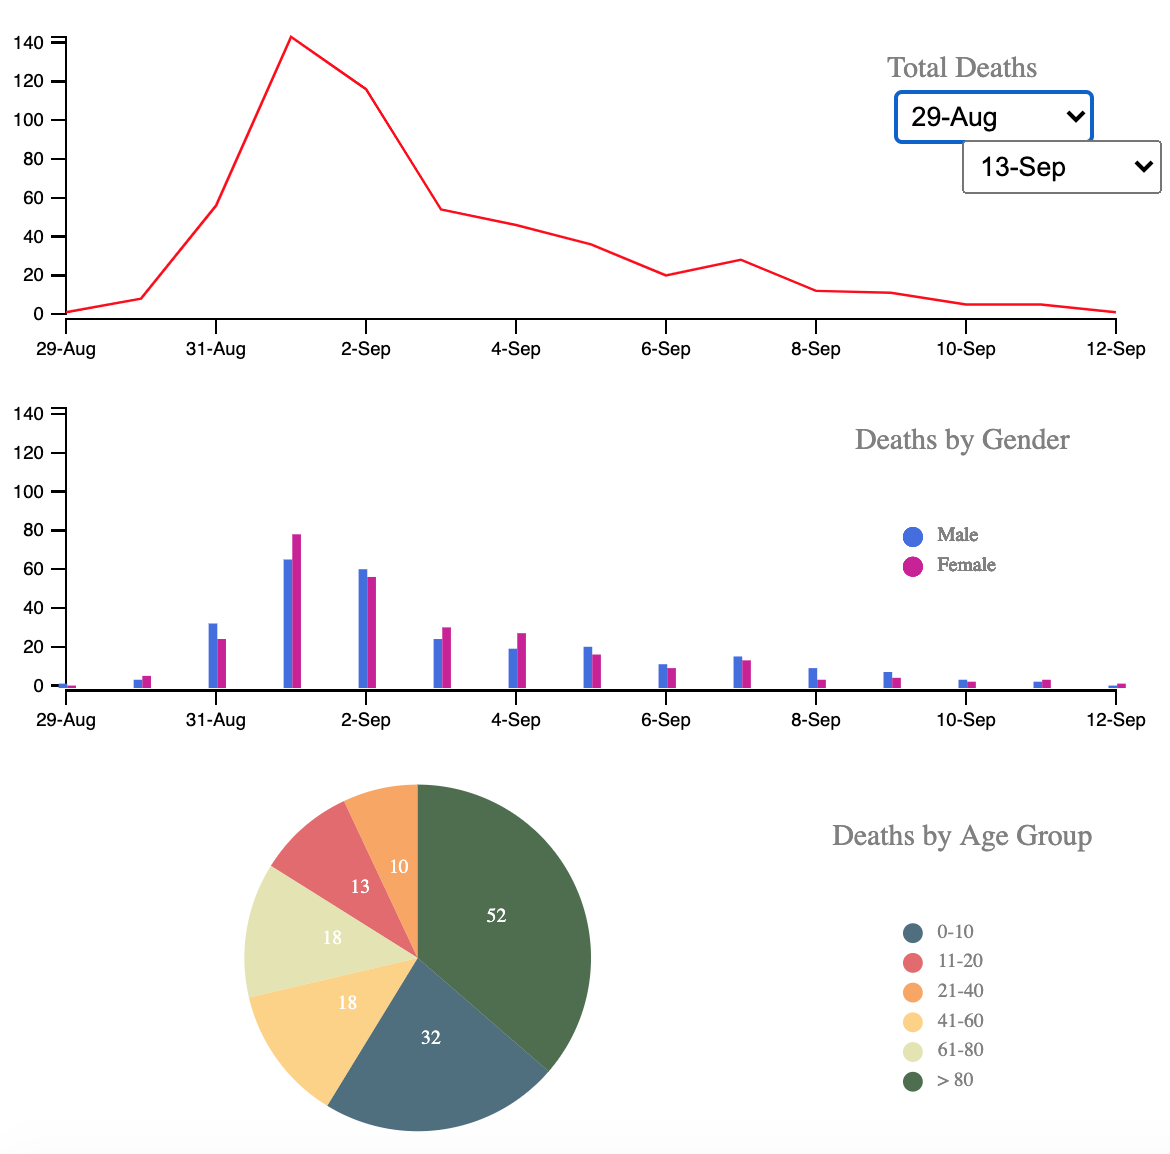
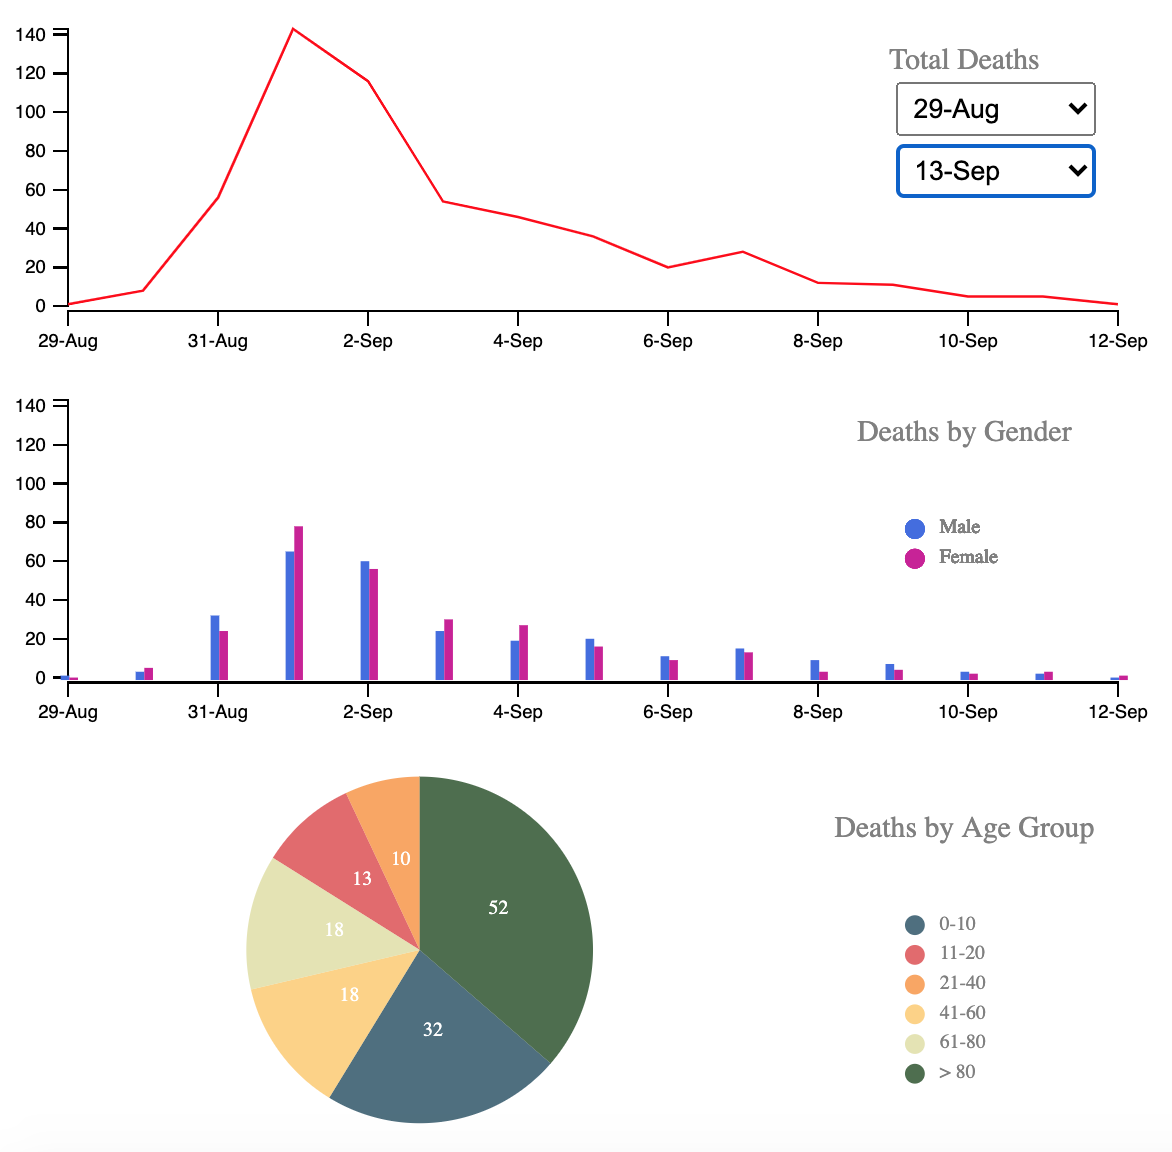
Updated Visuals

diff --git a/documentation.html b/documentation.html
@@ -56,14 +56,14 @@
 					<li>I had a hard time picturing how I wanted to do this project. I tried multiple ways to achieve the final visualizations, but I was happy with the final outcome.</li>
 				</ul>
 			</p>
-			<p>
-				<img width="50%" style="float:right;margin-left:15px" src="docs/Map.png"/>
-			</p>
 		</div>
 		<div class="pagesubtitle">Design Process</div>
+		<p>
+			<img width="50%" style="float:right;margin-left:15px" src="docs/Map.png"/>
+		</p>
 		<div class="pagetext">
 			<p>
-				The first step for the design process was to picture the visuals on paper. I came up with a couple of ideas to show both graphs at once. The first graph represents the map to show the deaths, street placement, building labels, and pumps. I created the location of each click for a starting estimate of the label placement. The second graphs show a line chart, bar chart, and pie chart for total deaths by gender and age. The x-axis shows the dates, while the y-axis shows the number of deaths. The X scale of the graph was initially separate from an X range band scale to draw the dark gray hover bars. I used the same X scale to place the hover bars, which was better than keeping parallel scales in synch. 
+				The first step for the design process was to picture the visuals on paper. I came up with a couple of ideas to show both graphs at once. The first graph represents the map to show the deaths, street placement, building labels, and pumps. I created the location of each click for a starting estimate of the label placement. The second graphs show a line chart, bar chart, and pie chart for total deaths by gender and age. The x-axis shows the dates, while the y-axis shows the number of deaths. The X scale of the graph was initially separate from an X range band scale to draw the dark gray hover bars. I used the same X scale to place the hover bars, which was better than keeping parallel scales in synch. The map has a zoom feature tool as well as moving around the window pane.
 			</p>
 			<p>
 				Dr. Reda provided documentation and deliverables for how the project would be graded. I added both graphs and highlighted the features one by one according to the requirements that were listed. I asked my co-workers to test out the visualization as well as how the colors appeal to them. My co-workers interacted with the web pages and the graphs provided. I received feedback, which gave me an idea for a consistent style. One feedback I recieved was on the male/female bar chart. The pumps are colored blue (to represent water) and the male point is blue. 
@@ -72,7 +72,7 @@
 				After receiving feedback, I decided to make a CSS file for the project. The CSS consisted of the page title, page subtitle, page text, and page buttons. This CSS kept my project consistent with text formatting. The page title has a color of RGB(157, 34, 53), which is the official color of IU Crimson. The page title text is formatted to Arial serif, 30 point size, and bold. The page subtitle text is black, Arial serif, 20 point size, and bold. The page text is black, Arial serif, and 12 point size. Finally, the page buttons are IU Crimson, white text, 17 point size font, and slightly other features. I used the Indiana University crimson color to post all of my graduate school work on my website, <a href="https://www.NikhilMorar.com">www.NikhilMorar.com</a> so that the color schemes will be the same across all projects. 
 			</p>
 			<p>
-				I experimented with different color schemes but came up with the solution to stay consistent throughout the project. I used blue to show males, magenta to show females, and six red scales to show age categories. From lighter to darker red to show younger age compared to an older age. All of these choices were made after various attempts of using different color schemes. The visualizations was good with the color blindness simulation tool.
+				I experimented with different color schemes but came up with the solution to stay consistent throughout the project. I used blue to show males, magenta to show females, and six red scales to show age categories. For the pie chart, I did a six color scale to show the different age groups. All of these choices were made after various attempts of using different color schemes. The visualizations was good with the color blindness simulation tool.
 			</p>
 			<p>
 				<img width="50%" style="float:right;margin-left:15px" src="docs/MostDeaths.png"/>
@@ -81,7 +81,10 @@
 		<div class="pagesubtitle">Conclusions/Findings</div>
 		<div class="pagetext">
 			<p>
-				For the first graph that shows the map, the deaths' locations are strongly correlated with the Broad Street pump location. The other demographics given were gender and age of each death. From the second graph for gender, I see no difference in the rate of deaths between female and male victims. As shown on the right, I noticed a high death rate in different age groups. I have highlighted the two age groups that show a young age from 0-10 and the old age of 80 and greater. These age groups are the lowest and highest groups provided. When digging into the data provided, only 1% of the population falls into the 80 and older age groups compared to 28% for the 0-10 age group. At the peak of the outbreak (September 1st), over a third of the fatalities were from this age range. This would imply a much higher mortality rate than the 0-10 age range. As there are many more deaths in the 80 and greater age group, the cholera outbreak took older people's lives compared to the youngest age group. I am very interested in how the actual gender and age of the deaths compared to the data provided for the project.
+				For the first graph that shows the map, the deaths' locations are strongly correlated with the Broad Street pump location. The other demographics given were gender and age of each death. From the second graph for gender, I see no difference in the rate of deaths between female and male victims. As shown on the right, I noticed a high death rate in different age groups. The pie chart shows the two age groups that show a young age from 0-10 and the old age of 80 and greater that takes up over 50% of the pie chart. These age groups are the lowest and highest groups provided. When digging into the data provided, only 1% of the population falls into the 80 and older age groups compared to 28% for the 0-10 age group. At the peak of the outbreak (September 1st), over a third of the fatalities were from this age range. This would imply a much higher mortality rate than the 0-10 age range. As there are many more deaths in the 80 and greater age group, the cholera outbreak took older people's lives compared to the youngest age group. I am very interested in how the actual gender and age of the deaths compared to the data provided for the project.
+			</p>
+			<p>
+				As shown for the image on the right is the line chart and bar chart filtered for Aug. 29th through Sept. 13th deaths and the pie chart shows Sept. 1st deaths. The reason I was interested in these charts was to show the peak deaths starting the the first date of 1 death and the last day of 1 death where the peak happened. September 1st was by far the worse day for deaths but eventually goes back down to 1 death on September 13th. I wanted to use three different charts to test my D3 skills as well as give the most visual value for the data provided. 
 			</p>
 		</div>
 		<div class="pagesubtitle">Works Cited</div>

diff --git a/styles.css b/styles.css
@@ -89,6 +89,6 @@ svg .deathhoverbar:hover {
 
 #to-date {
     position: relative;
-    top: 22vh;
-    left: 30.55vw;
+    top: 23vh;
+    left: 27.9vw;
 }
